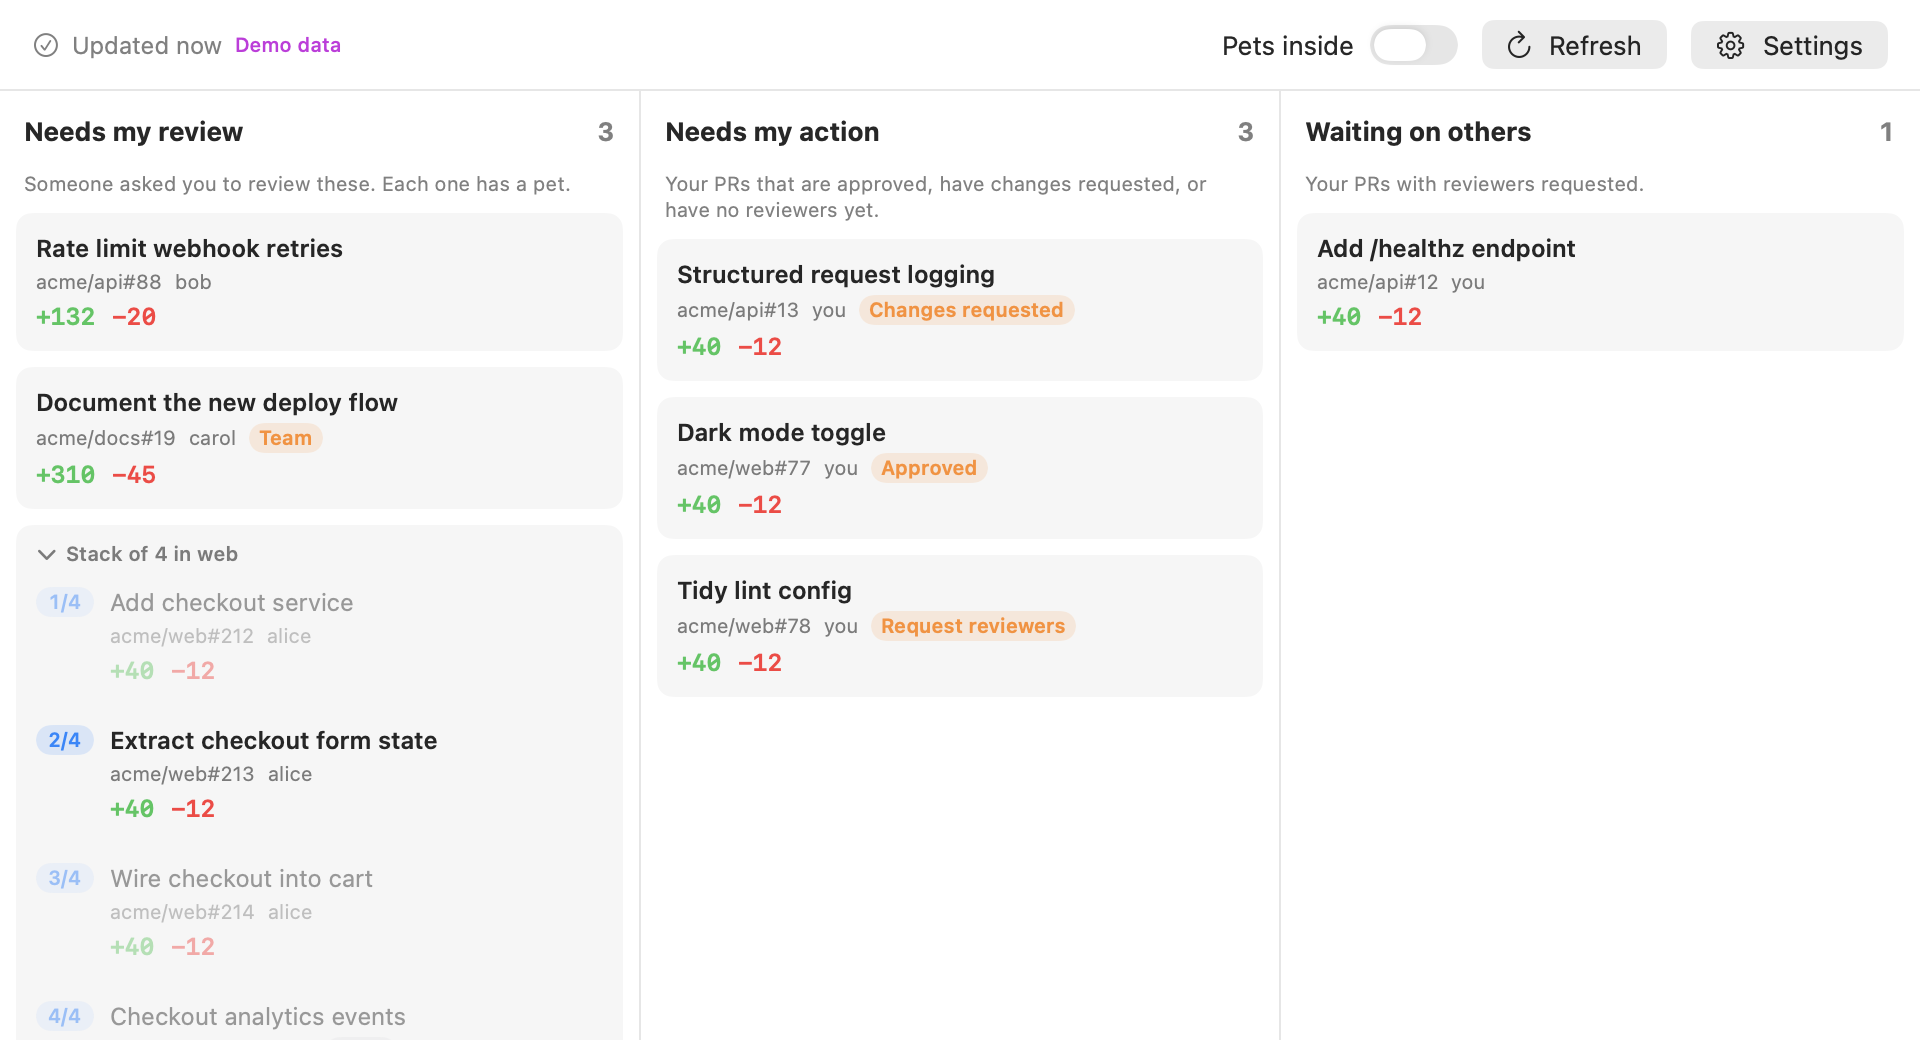
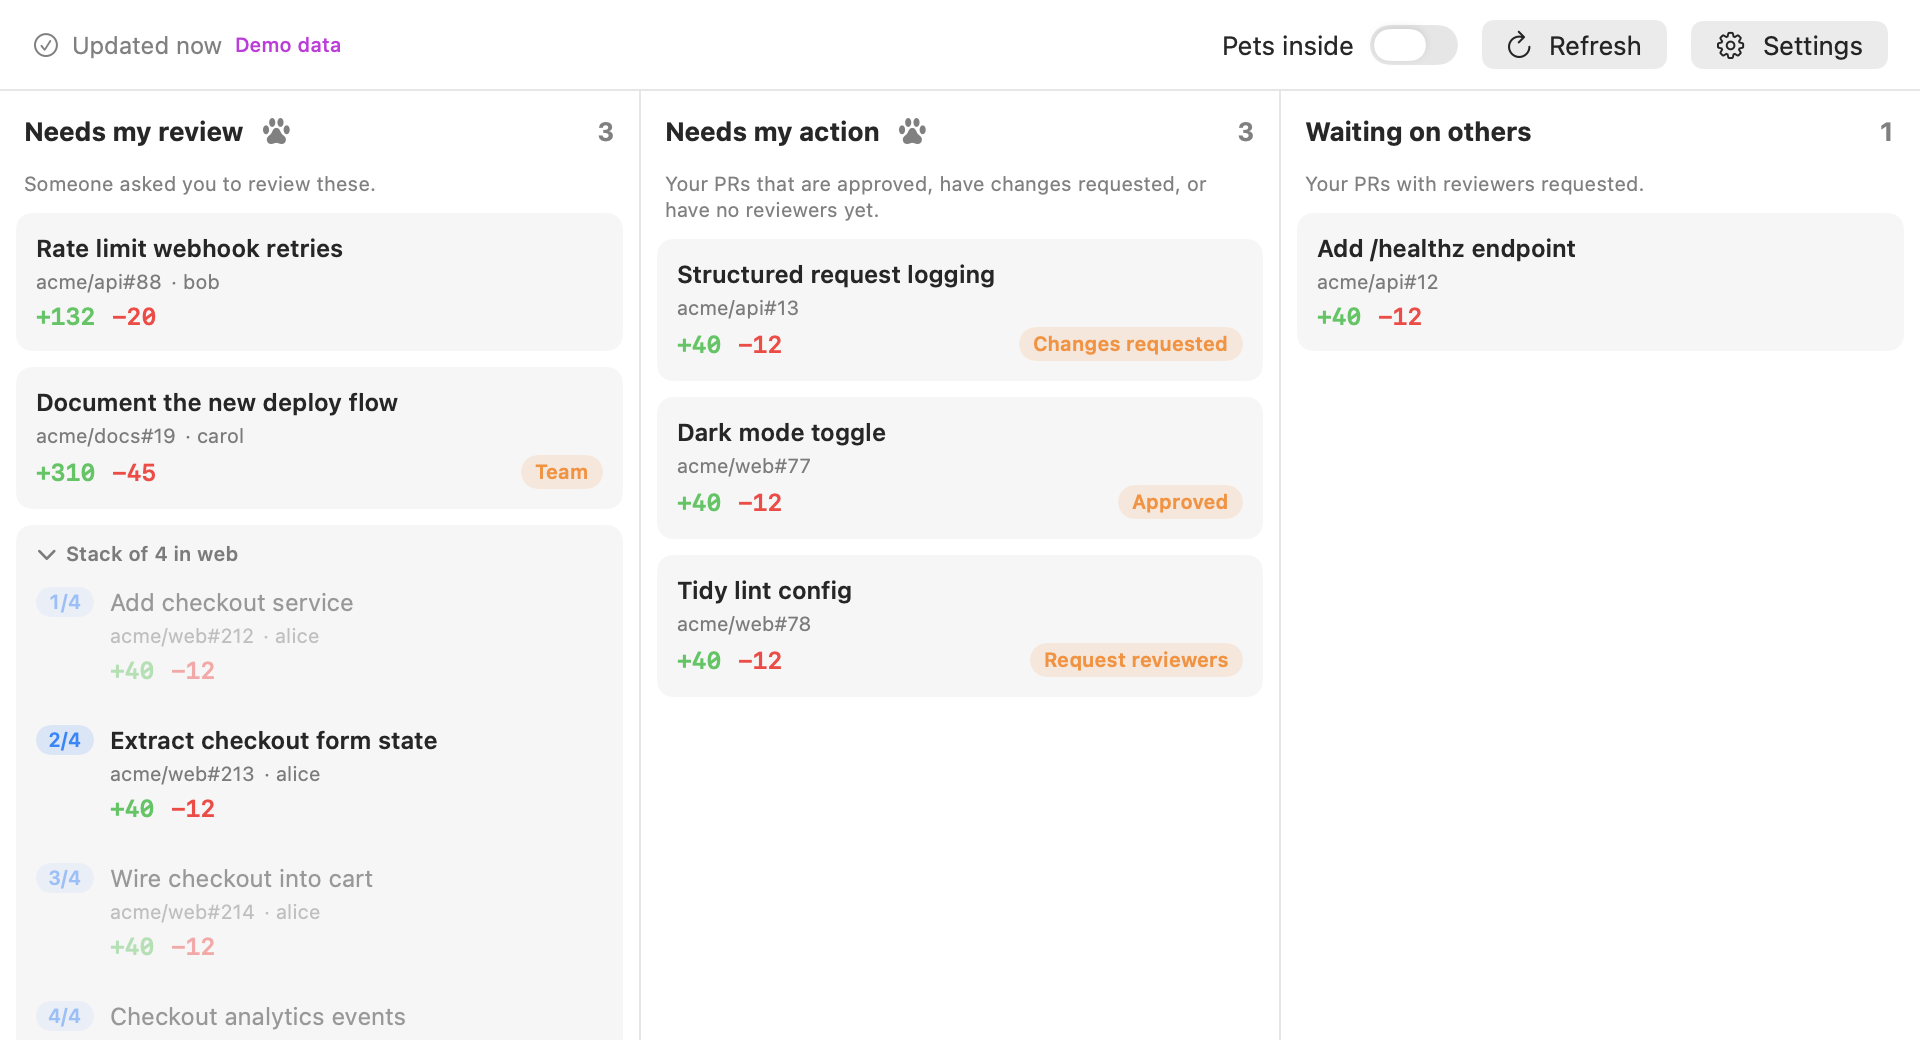
Give dashboard status pills their own spot
Status pills (Request reviewers, Approved, Team, Muted...) now sit right-aligned
on the line-count row instead of squeezing in beside the repository, and drop
to their own line when the column is too narrow, so they never wrap or touch
the card edge. The author follows the reference as "· alice". Debug snapshots
also render the dashboard at its minimum width.

diff --git a/Sources/PRPetsApp/Views/DashboardView.swift b/Sources/PRPetsApp/Views/DashboardView.swift
@@ -215,6 +215,16 @@ private struct PullRequestRow: View {
         hasPet ? board.presence.absence(of: pullRequest) : nil
     }
 
+    private var statusTags: some View {
+        HStack(spacing: 4) {
+            if pullRequest.isDraft { Tag(text: "Draft", colour: .gray) }
+            if let reason = board.queue.placement(of: pullRequest)?.reason, isHighlighted {
+                Tag(text: reason, colour: .orange)
+            }
+            if let absenceText = absence?.dashboardText { Tag(text: absenceText, colour: .purple) }
+        }
+    }
+
     var body: some View {
         HStack(alignment: .top, spacing: 8) {
             if let stackPosition { StackBadge(position: stackPosition) }
@@ -222,25 +232,31 @@ private struct PullRequestRow: View {
                 Text(pullRequest.title)
                     .font(.callout.weight(isHighlighted ? .semibold : .regular))
                     .lineLimit(2)
-                HStack(spacing: 6) {
+                HStack(spacing: 4) {
                     Text(pullRequest.shortReference)
                         .lineLimit(1)
                         .truncationMode(.middle)
                     // Your own PRs don't need your name on them.
                     if !pullRequest.isAuthored(by: board.queue.viewer) {
-                        Text(pullRequest.author.login.rawValue).lineLimit(1)
+                        Text("· \(pullRequest.author.login.rawValue)").lineLimit(1)
                     }
-                    if pullRequest.isDraft { Tag(text: "Draft", colour: .gray) }
-                    if let reason = board.queue.placement(of: pullRequest)?.reason, isHighlighted {
-                        Tag(text: reason, colour: .orange)
-                    }
-                    if let absenceText = absence?.dashboardText { Tag(text: absenceText, colour: .purple) }
                 }
                 .font(.caption)
                 .foregroundStyle(.secondary)
-                LineDeltaView(lineDelta: pullRequest.lineDelta).font(.caption)
+                // Pills sit right of the line counts, or drop to their own line when the column is too narrow.
+                ViewThatFits(in: .horizontal) {
+                    HStack(spacing: 8) {
+                        LineDeltaView(lineDelta: pullRequest.lineDelta).font(.caption)
+                        Spacer(minLength: 8)
+                        statusTags
+                    }
+                    VStack(alignment: .leading, spacing: 4) {
+                        LineDeltaView(lineDelta: pullRequest.lineDelta).font(.caption)
+                        statusTags
+                    }
+                }
             }
-            Spacer(minLength: 0)
+            .frame(maxWidth: .infinity, alignment: .leading)
         }
         .padding(10)
         .opacity(isHighlighted ? 1 : 0.45)
@@ -270,8 +286,8 @@ private struct Tag: View {
             .font(.caption2.weight(.semibold))
             .lineLimit(1)
             .fixedSize()
-            .padding(.horizontal, 5)
-            .padding(.vertical, 1)
+            .padding(.horizontal, 7)
+            .padding(.vertical, 2)
             .background(Capsule().fill(colour.opacity(0.15)))
             .foregroundStyle(colour)
     }

diff --git a/Sources/PRPetsApp/DebugSnapshots.swift b/Sources/PRPetsApp/DebugSnapshots.swift
@@ -26,6 +26,10 @@ enum DebugSnapshots {
                     card.frame = CGRect(origin: .zero, size: card.fittingSize)
                     try write(card, to: directory.appending(path: "pet-card.png"))
                 }
+                // The dashboard at its minimum width, where rows are most cramped.
+                let narrowDashboard = NSHostingView(rootView: DashboardView(model: model, updates: updates, showSettings: {}))
+                narrowDashboard.frame = CGRect(x: 0, y: 0, width: 900, height: 520)
+                try write(narrowDashboard, to: directory.appending(path: "dashboard-narrow.png"))
                 let tabs: [(String, AnyView)] = [
                     ("github", AnyView(GitHubSettings(model: model))),
                     ("pets", AnyView(PetSettings(model: model))),
